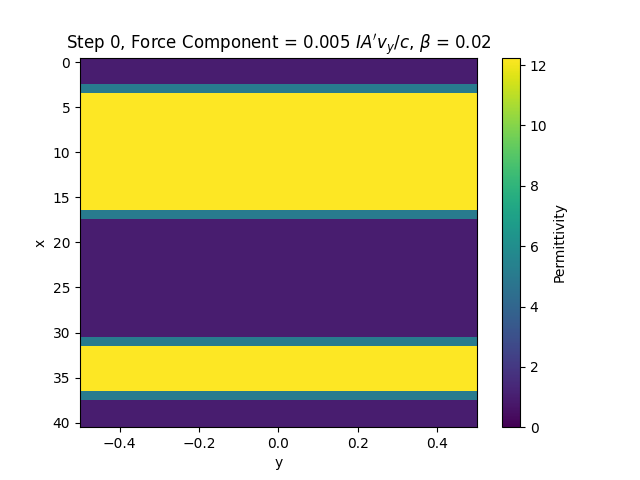
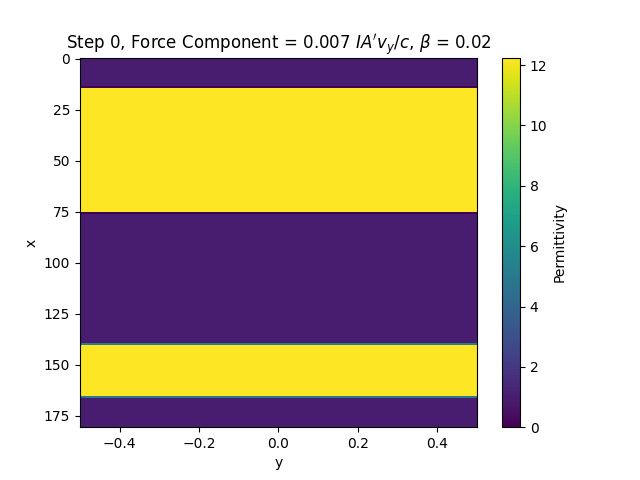
Replicated ilic and some optimisation with core.py

diff --git a/grcwa/optimisation/wk10attempt/optimising_force.py b/grcwa/optimisation/wk10attempt/optimising_force.py
@@ -1,0 +1,104 @@
+import core
+import autograd.numpy as np
+from autograd import grad
+
+## Discretisation values
+nG = 30
+Nx = 181
+
+## Sail speed
+beta = 0.2
+
+## Ilic cell parameters
+d = 1.8
+x1 = 0.25*d
+x2 = 0.85*d
+w1 = 0.35*d
+w2 = 0.15*d
+# Permittivities
+E_Si = 3.5**2
+E_SiO2 = 1.45**2
+E_vacuum = 1.
+
+## Light incidence
+c = 1.
+wavelength = 1.5
+freq = c/wavelength
+theta = 0.
+
+
+
+## Objective function to minimise
+min_objective = lambda vars: core.grcwa_transverse_force(nG, core.linear_permittivity_geometry(Nx,d,x1,x2,w1,w2,vars), Nx, d, theta, freq, beta)
+grad_fun = grad(min_objective)
+
+## Optimisation
+# Initialisation parameters
+vars = [5.,5.]                                 # [eps1, eps2]
+step_size = 1/np.sum(np.array(grad_fun(vars))) # define step size so that first step is of size 1
+obj_vals = []
+var_vals = []
+# Optimisation loop
+step = 0
+optimising = True
+while optimising:
+    ## Print initial values
+    if step == 0:
+        obj = min_objective(vars)
+        print("{:<8} | {:<10} | {:<8} | {:<8} | {:<8} | {:<8}".format("Step", "Objective", 'eps1', 'eps2', 'w1', 'w2'))
+        print("----------------------------------------------------------------")
+        print("{:<8} | {:<10.3f} | {:<8.3f} | {:<8.3f} | {:<8.3f} | {:<8.3f}".format(step,obj,vars[0],vars[1],w1,w2))
+
+        # Add to history of parameters and objective values
+        var_vals.append(vars)
+        obj_vals.append(obj)
+
+    ## Perform Optimisation
+    else:
+        if step % 8 == 0:
+            print("----------------------------------------------------------------")
+            print("{:<8} | {:<10} | {:<8} | {:<8} | {:<8} | {:<8}".format("Step", "Objective", 'eps1', 'eps2', 'w1', 'w2'))
+            print("----------------------------------------------------------------")
+
+        # Calculate current gradient
+        grad = grad_fun(vars)
+
+        # Step in direction of local minimum
+        vars = vars - step_size*np.array(grad)
+        # Ensure that the permittivities are from E_vacuum to E_Si
+        vars, w1, w2 = core.valid_eps(vars, d, Nx, w1, w2)
+        
+        # Calculate cost function after stepping
+        obj = min_objective(vars)
+        
+        # Condition 1: minimum has been overstepped, leading objective to increase
+        if obj > obj_vals[-1]:
+            step_size = 0.9*step_size # decrease the step size
+            continue
+
+        # Condition 2: recent values are identical
+        elif max(obj_vals[-5:]) - min(obj_vals[-5:]) < 1e-3:
+            step_size = 1.5*step_size # increase step size for next time
+            
+
+        
+
+        # Add to history of parameters and objective values
+        var_vals.append(vars)
+        obj_vals.append(obj)
+
+        ## Print current state to terminal
+        print("{:<8} | {:<10.3f} | {:<8.3f} | {:<8.3f} | {:<8.3f} | {:<8.3f}".format(step,obj,vars[0],vars[1],w1,w2))
+            
+                
+
+    step += 1 # move to next step in optimisation
+
+
+
+
+'''
+Objectives:
+    1) Ensure that cell_geometry is dynamically changing        DONE
+    
+'''

diff --git a/grcwa/optimisation/wk10attempt/core.py b/grcwa/optimisation/wk10attempt/core.py
@@ -61,8 +61,8 @@ def linear_boundary_geometry(Nx,d,x1,x2,w1,w2):
     y0 = np.linspace(0,dy,Ny)
     x, y = np.meshgrid(x0,y0, indexing='ij')
 
-    filter1 = abs(x - x1) <= w1/2
-    filter2 = abs(x-x2) <= w2/2
+    filter1 = abs(x - x1) + d/(2*(Nx-1)) <= w1/2
+    filter2 = abs(x - x2) + d/(2*(Nx-1)) <= w2/2
     cell_geometry = np.ones((Nx,Ny)) * E_vacuum
     cell_geometry[filter1 | filter2] = E_Si
 
@@ -136,8 +136,8 @@ def linear_permittivity_geometry(Nx,d,x1,x2,w1,w2,vars):
     y0 = np.linspace(0,dy,Ny)
     x, y = np.meshgrid(x0,y0, indexing='ij')
 
-    filter1 = abs(x - x1) <= w1/2
-    filter2 = abs(x-x2) <= w2/2
+    filter1 = abs(x - x1) + d/(2*(Nx-1)) <= w1/2
+    filter2 = abs(x - x2) + d/(2*(Nx-1)) <= w2/2
     cell_geometry = np.ones((Nx,Ny)) * E_vacuum
     cell_geometry[filter1 | filter2] = E_Si
 
@@ -182,7 +182,7 @@ def grcwa_reflectance_transmittance(nG,cell_geometry,Nx,d,theta,freq):
 
         d: width of the unit cell.
 
-        theta: incident angle of light.
+        theta: incident angle of light, in degrees.
 
     '''
     ## Frequency
@@ -222,7 +222,7 @@ def grcwa_reflectance_transmittance(nG,cell_geometry,Nx,d,theta,freq):
     R,T= obj.RT_Solve(normalize=1)
     return R,T
 
-def grcwa_reflectance_transmittance_orders(nG,orders,cell_geometry,Nx,d,theta,freq):
+def grcwa_reflectance_transmittance_orders(nG,orders,Nx,d,theta,freq,x1,x2,w1,w2):
     '''
     Calculates the reflectance of the infinitely extended unit cell.
 
@@ -237,6 +237,15 @@ def grcwa_reflectance_transmittance_orders(nG,orders,cell_geometry,Nx,d,theta,fr
         theta: incident angle of light.
 
     '''
+    cell_geometry = np.ones((Nx,Ny), dtype=float)*E_vacuum
+
+    x0 = np.linspace(0,d,Nx)
+    y0 = np.linspace(0,dy,Ny)
+    x, y = np.meshgrid(x0,y0, indexing='ij')
+    # The design will be completely uniform in the y-direction.
+    filter = (abs(x-x1) <= w1/2) | (abs(x-x2) <= w2/2)
+    cell_geometry[filter] = E_Si
+
     ## Frequency
     Qabs = np.inf
     freqcmp = freq*(1+1j/2/Qabs)
@@ -449,3 +458,22 @@ def grcwa_transverse_force(nG,cell_geometry,Nx,d,theta,freq,beta):
 
     ## Transverse force
     return -1*(1/v)*(D1**2)*( 2*(wavelength/d)*pEn1_pTheta*(1/D1 - 1) - (gamma-1)*(2*e[0] + 2*e[1]*(1 + np.sqrt( 1 - (wavelength/d)**2 ))) )
+
+def valid_eps(vars,d,Nx,w1,w2):
+    if vars[0] < E_vacuum:
+        vars[0] = E_Si - (E_vacuum - vars[0])
+        w1 = w1 - 2*d/(Nx-1)
+
+    if vars[1] < E_vacuum:
+        vars[1] = E_Si - (E_vacuum - vars[1])
+        w2 = w2 - 2*d/(Nx-1)
+
+    if vars[0] > E_Si:
+        vars[0] = E_vacuum + (vars[0] - E_Si)
+        w1 = w1 + 2*d/(Nx-1)
+
+    if vars[0] > E_Si:
+        vars[1] = E_vacuum + (vars[1] - E_Si)
+        w2 = w2 + 2*d/(Nx-1)
+
+    return vars,w1,w2

diff --git a/grcwa/optimisation/wk10attempt/ilic_replication.py b/grcwa/optimisation/wk10attempt/ilic_replication.py
@@ -1,0 +1,79 @@
+import core
+import numpy as np
+import matplotlib.pyplot as plt
+
+### Ilic Replication
+Nx = 181 # don't keep this too low: the boundary epsilons are not very representative of a real cell. Nx=181 is good
+Ny = 1
+nG = 30
+beta = 0.02
+
+# Defining Ilic dimensions
+d = 1.8  # unit cell width
+x1 = 0.25*d # positions of blocks in unit cell
+x2 = 0.85*d 
+w1 = 0.35*d # width of blocks in unit cell, 0.45d works for good optimum
+w2 = 0.15*d
+
+h = 0.5  # thickness of resonator layer
+t = 0.5  # also equal to thickness of substrate layer
+v_width = 2
+
+E_vacuum = 1.
+E_Si = 3.5**2    # https://refractiveindex.info/ with k = n^2 (dielectric constant, refractive index)
+E_SiO2 = 1.45**2  # https://refractiveindex.info/ with k = n^2 (dielectric constant, refractive index)
+
+
+# Lattice constants. I will consider a lattice with square-shaped unit cells of size d x d (in natural units specified above)
+L1 = [d, 0]
+wavelength = 1.5
+c=1.
+freq = c/wavelength
+
+'''
+Ilic replication
+'''
+
+orders = [-1,0,1]
+thetas = np.linspace(-20*np.pi/180, 20*np.pi/180, 81)
+Ris = np.empty((len(thetas), len(orders)))
+Tis = np.empty((len(thetas), len(orders)))
+
+
+cell_geometry, eps1, eps2 = core.linear_boundary_geometry(Nx,d,x1,x2,w1,w2)
+print(eps1,eps2)
+for j in range(0,len(thetas)):
+    theta = thetas[j]
+    Rs,Ts = core.grcwa_reflectance_transmittance_orders(nG,orders,Nx,d,theta*180/np.pi,freq,x1,x2,w1,w2)
+    # Construct matrix with jth row being the
+    Ris[j,:] = Rs
+    Tis[j,:] = Ts
+    
+    print("Incidence: {:g}".format(theta*180/np.pi))
+
+
+
+
+
+
+
+legend = []
+colors = ['red', 'grey', 'blue']
+ax = plt.gca()
+for i in range(0,len(orders)):
+    order = orders[i]
+    # color=next(ax._get_lines.prop_cycler)['color']
+    color = colors[i]
+    plt.plot(thetas*180/np.pi, Ris[:,i], color=color)
+    legend.append(r"$r_{}$".format("{" + str(orders[i]) + "}"))
+    plt.plot(thetas*180/np.pi, Tis[:,i], '--', color=color)
+    legend.append(r"$t_{}$".format("{" + str(orders[i]) + "}"))
+
+plt.legend(legend)
+plt.xlabel(r"Incident angle ($^\circ$)")
+plt.ylabel("Reflection/transmission")
+plt.title("Reflection and transmission coefficients for asymmetric Ilic-style grating")
+plt.ylim([0,1.])
+
+plt.savefig('grcwa/ilic_replication/figs/ilic_GRCWA_rtmodes_nG{}'.format(nG))
+plt.show()

diff --git a/grcwa/optimisation/nlopt_width_for_force.py b/grcwa/optimisation/nlopt_width_for_force.py
@@ -17,7 +17,7 @@ Discretisation values
 # Truncation order
 nG = 30
 # Resolution 
-Nx = 161
+Nx = 181
 Ny = 1
 
 '''
@@ -26,13 +26,14 @@ Lattice cell parameters
 # Defining Ilic dimensions
 d = 1.8  # unit cell width
 dy = 1e-1
-x1 = 0.85*d # positions of blocks in unit cell
-x2 = 0.25*d 
-w1 = 0.15*d # width of blocks in unit cell
-w2 = 0.35*d
+x1 = 0.25*d # positions of blocks in unit cell
+x2 = 0.85*d 
+w1 = 0.35*d # width of blocks in unit cell
+w2 = 0.15*d
 
 h = 0.5  # thickness of resonator layer
 t = 0.5  # also equal to thickness of substrate layer
+v_width = 2
 
 E_vacuum = 1.
 E_Si = 3.5**2     # https://refractiveindex.info/ with k = n^2 (dielectric constant, refractive index)
@@ -136,10 +137,10 @@ def En1_func(theta, cell_geometry):
     ######### setting up RCWA
     obj = grcwa.obj(nG,L1,L2,freqcmp,theta*np.pi/180,phi*np.pi/180,verbose=0)
     # input layer information
-    obj.Add_LayerUniform(0,E_vacuum)     # Layer 0
+    obj.Add_LayerUniform(v_width,E_vacuum)     # Layer 0
     obj.Add_LayerGrid(h,Nx,Ny)           # Layer 1
     obj.Add_LayerUniform(t,E_SiO2)       # Layer 2
-    obj.Add_LayerUniform(0,E_vacuum)     # Layer 3
+    obj.Add_LayerUniform(v_width,E_vacuum)     # Layer 3
     obj.Init_Setup()
 
 
@@ -180,10 +181,10 @@ def cost_function(vars,Qabs,v):
     ######### setting up RCWA
     obj = grcwa.obj(nG,L1,L2,freqcmp,theta*np.pi/180,phi*np.pi/180,verbose=0)
     # input layer information
-    obj.Add_LayerUniform(0,E_vacuum)     # Layer 0
+    obj.Add_LayerUniform(v_width,E_vacuum)     # Layer 0
     obj.Add_LayerGrid(h,Nx,Ny)           # Layer 1
     obj.Add_LayerUniform(t,E_SiO2)       # Layer 2
-    obj.Add_LayerUniform(0,E_vacuum)     # Layer 3
+    obj.Add_LayerUniform(v_width,E_vacuum)     # Layer 3
     obj.Init_Setup()
 
 
@@ -229,7 +230,7 @@ fig1, ax1 = plt.subplots()
 # nlopt function
 ctrl = 0
 Qabs = np.inf
-v = 0.2*c
+v = 0.02*c
 fun = lambda vars: cost_function(vars,Qabs,v)
 grad_fun = grad(fun)
 
@@ -273,7 +274,7 @@ NLOPT Setup
 ndof = 2
 init = [w1,w2]
 lb = [0,0]
-ub = [0.3*d,0.5*d]
+ub = [0.5*d,0.3*d]
 
 opt = nlopt.opt(nlopt.LD_MMA, ndof)
 opt.set_lower_bounds(lb)

diff --git a/grcwa/ilic_replication/ilic_GRCWA_rtmodes.py b/grcwa/ilic_replication/ilic_GRCWA_rtmodes.py
@@ -42,6 +42,7 @@ w2 = 0.35*dx
 
 h = 0.5  # thickness of resonator layer
 t = 0.5  # also equal to thickness of substrate layer
+v_width = 2 # width of vacuum layer
 
 wavelength = 1.5
 freq = 1./wavelength
@@ -103,10 +104,10 @@ for j in range(0,len(thetas)):
     theta = thetas[j]
     obj = grcwa.obj(nG,L1,L2,freq,theta,phi=0,verbose=0)
     # input layer information
-    obj.Add_LayerUniform(2,E_vacuum)     # Layer 0
+    obj.Add_LayerUniform(v_width,E_vacuum)     # Layer 0
     obj.Add_LayerGrid(h,Nx,Ny)           # Layer 1
     obj.Add_LayerUniform(t,E_SiO2)       # Layer 2
-    obj.Add_LayerUniform(2,E_vacuum)     # Layer 3
+    obj.Add_LayerUniform(v_width,E_vacuum)     # Layer 3
     obj.Init_Setup()
 
     # planewave excitation

diff --git a/grcwa/optimisation/non_nlopt/boundary_permittivity_for_force.py b/grcwa/optimisation/non_nlopt/boundary_permittivity_for_force.py
@@ -21,7 +21,7 @@ Discretisation values
 # Truncation order
 nG = 30
 # Resolution 
-Nx = 41
+Nx = 181
 Ny = 1
 
 
@@ -50,7 +50,7 @@ t = 0.5  # also equal to thickness of substrate layer
 v_width = 2
 
 E_vacuum = 1.
-E_Si = 3.5**2    # https://refractiveindex.info/ with k = n^2 (dielectric constant, refractive index)
+E_Si = 3.5**2     # https://refractiveindex.info/ with k = n^2 (dielectric constant, refractive index)
 E_SiO2 = 1.45**2  # https://refractiveindex.info/ with k = n^2 (dielectric constant, refractive index)
 
 

diff --git a/grcwa/optimisation/wk10attempt/running_core.py b/grcwa/optimisation/wk10attempt/running_core.py
@@ -1,5 +1,5 @@
 import core
-
+import numpy as np
 # Truncation order
 nG = 30
 # Resolution 
@@ -53,10 +53,3 @@ efficiencies = core.grcwa_efficiencies(nG,orders,cell_geometry,Nx,d,theta,freq)
 print("Efficiencies:", efficiencies)
 
 
-### Transverse force
-Nx = 41
-nG = 30
-beta = 0.02
-cell_geometry = core.linear_permittivity_geometry(Nx,d,x1,x2,w1,w2,[8.932,8.154])
-force = core.grcwa_transverse_force(nG,cell_geometry,Nx,d,theta,freq,beta)
-print("Transverse force: {} I A' v_y/c".format(force))
